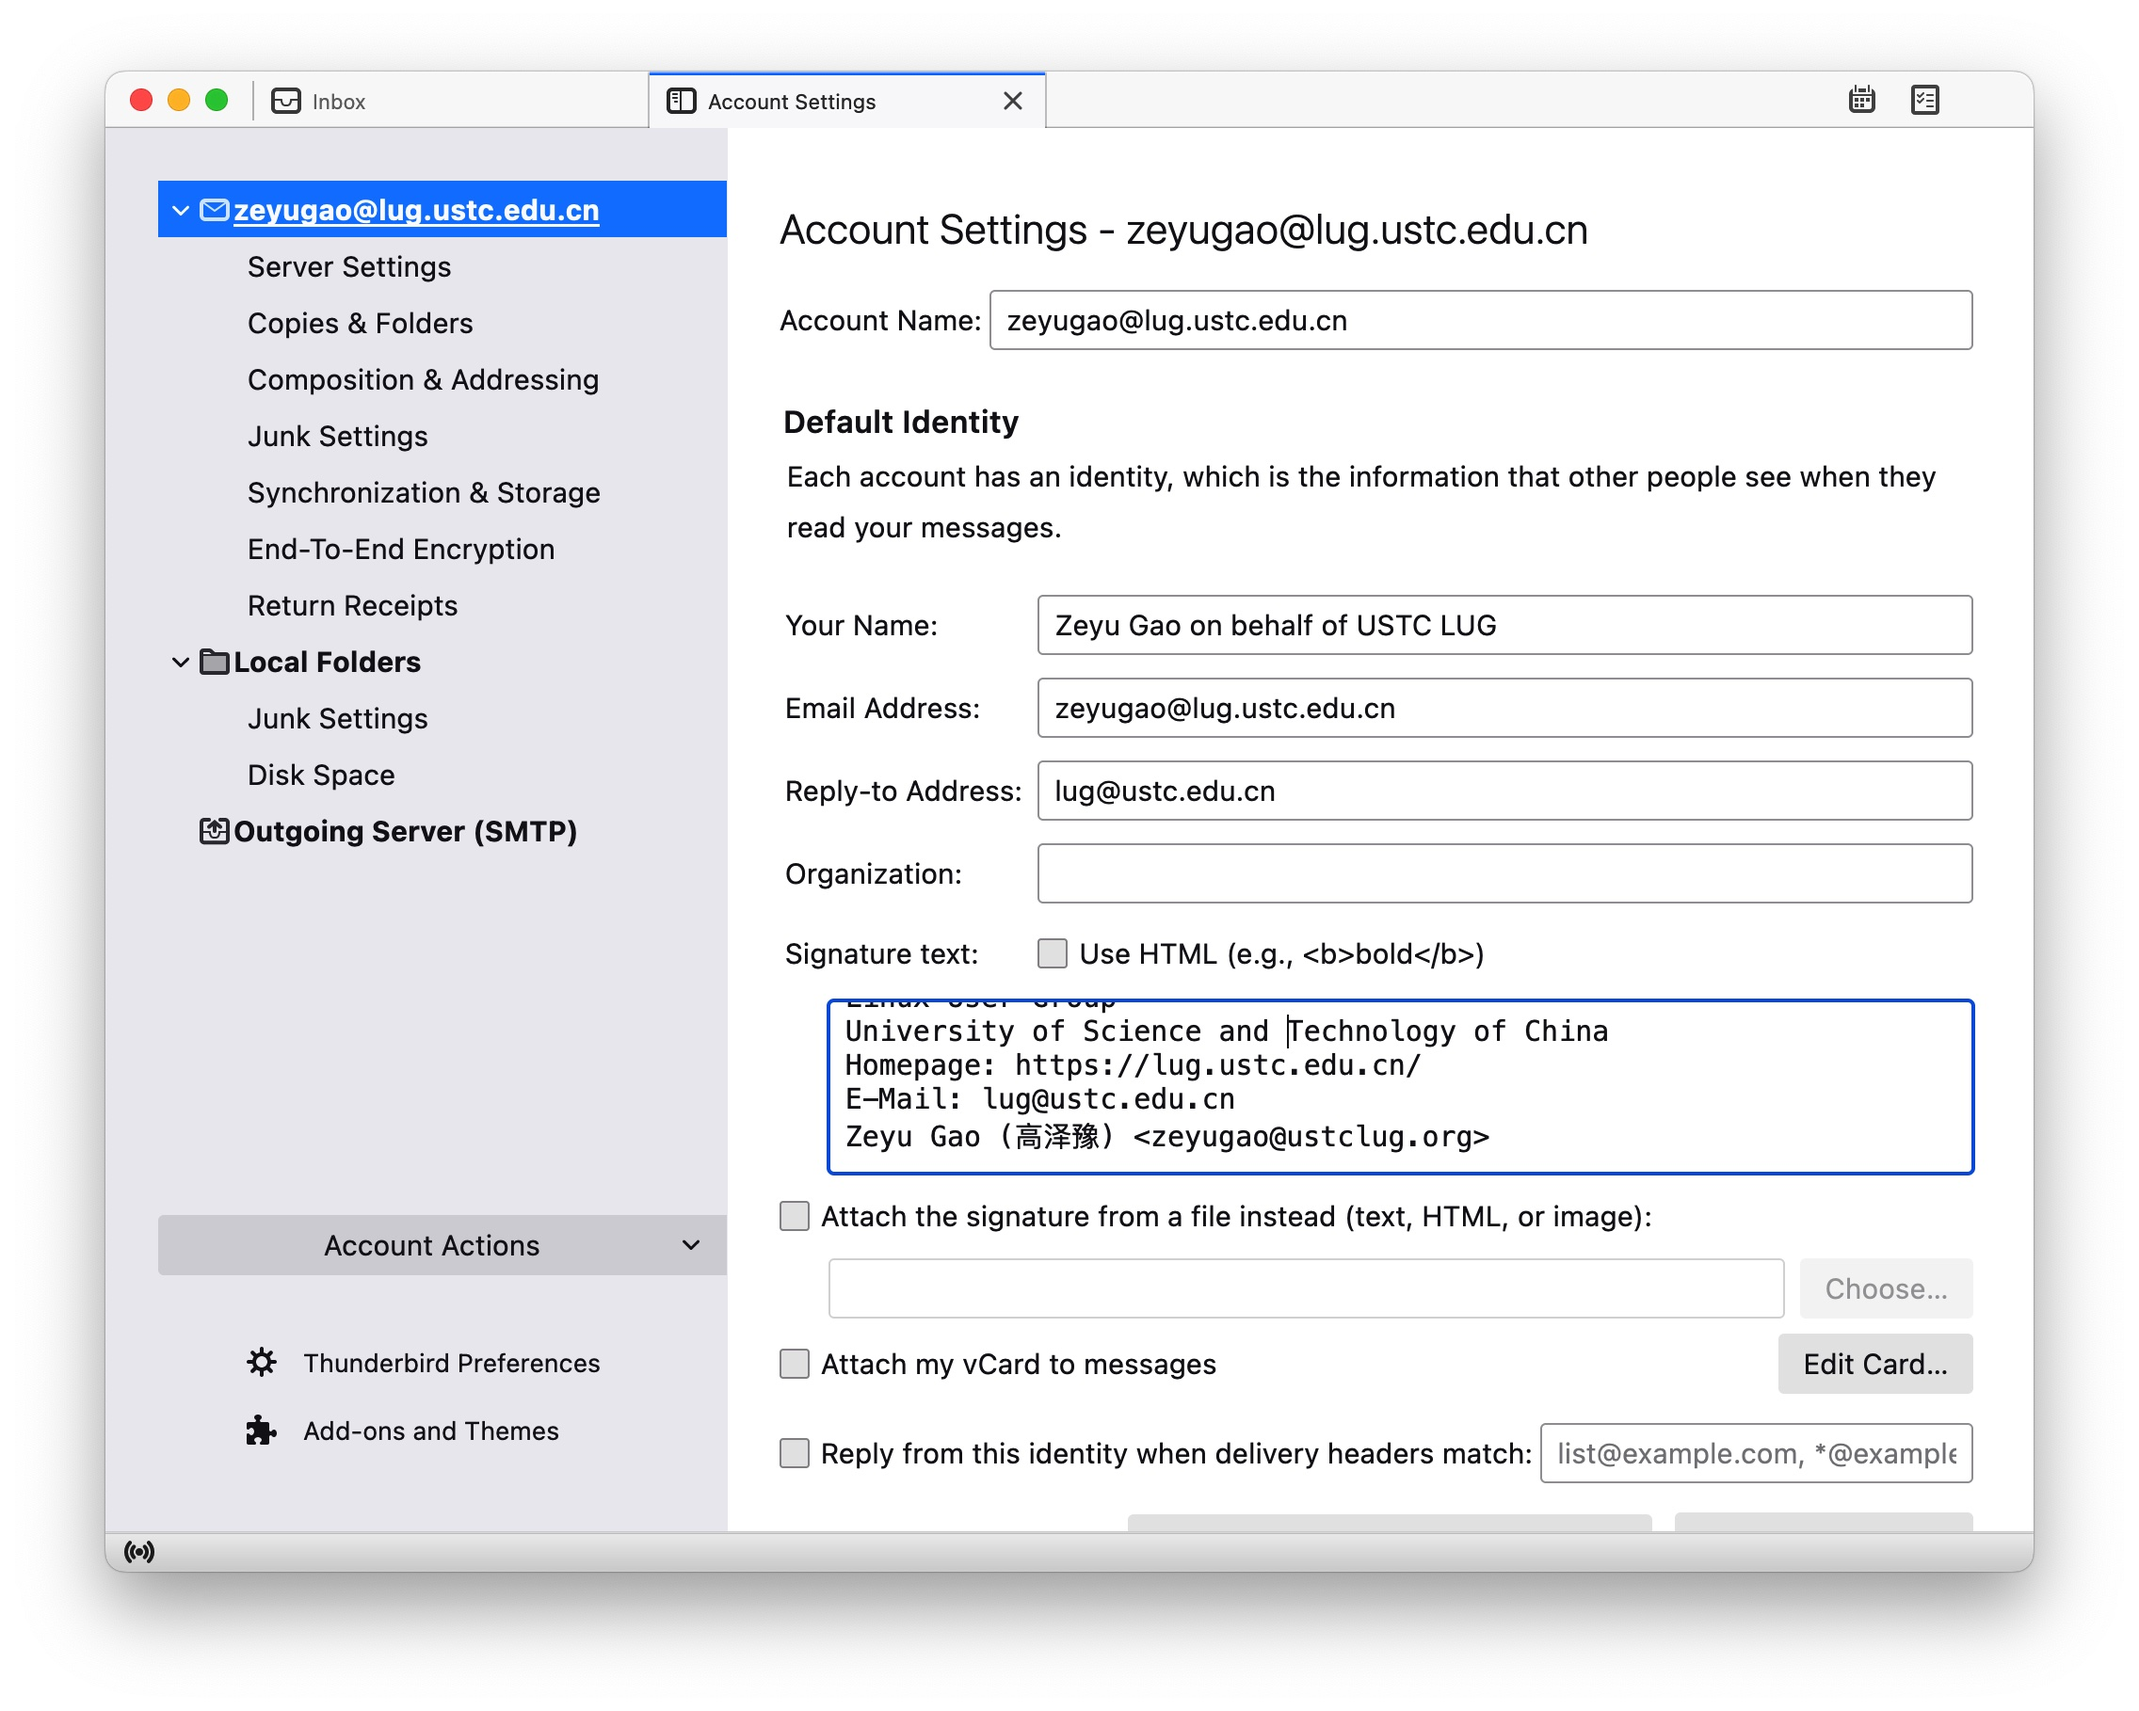
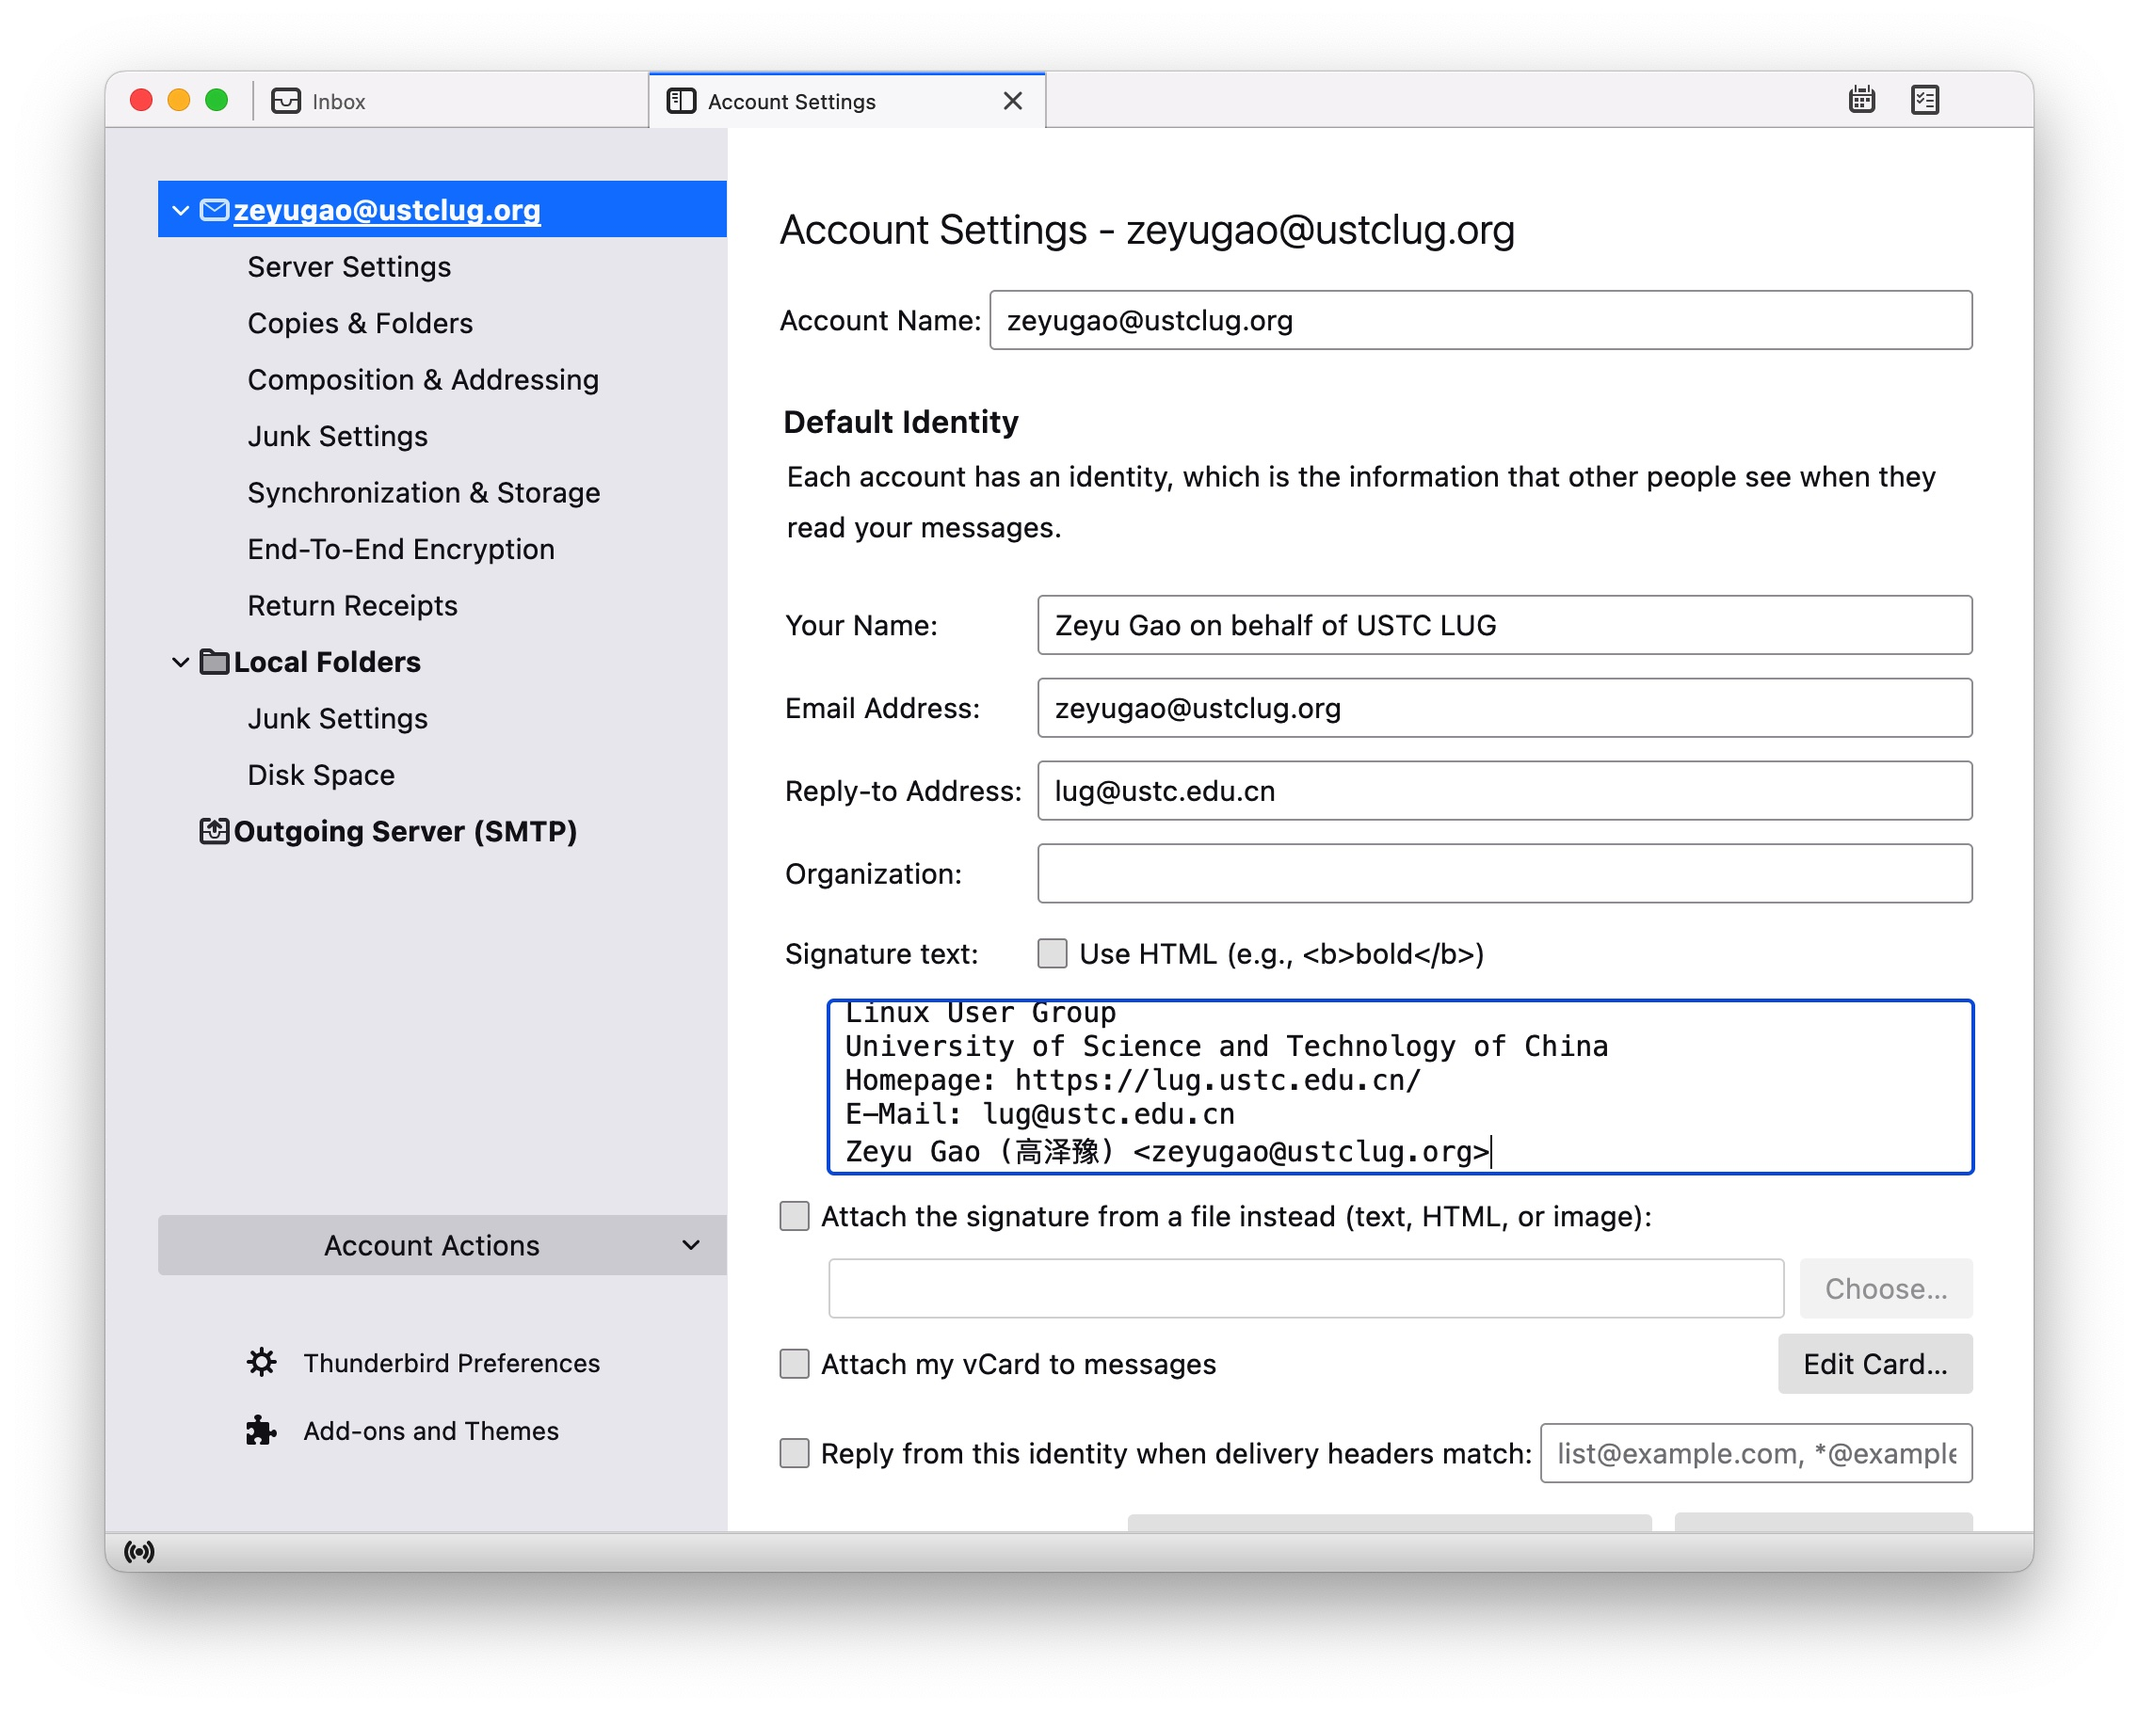
Update thunderbird conf for office365

diff --git a/docs/infrastructure/office.md b/docs/infrastructure/office.md
@@ -32,15 +32,38 @@ Outlook 无法直接通过网页端添加发件人名称、设置回复地址，
 
 ## Thunderbird
 
-在登录时，在自动查询到推荐的服务器配置后，选择 IMAP，并选择 `Configure manually`。
+在登录时，输入了用户名、密码后，会显示无法找到对应的邮箱配置
 
-将 `Incoming server` 和 `Outgoing server` 下面的 `Authentication method:` 都修改为 `OAuth2`。然后点 `Done`。在弹出的窗口中完成认证。
+![Thunderbird auto config failed](img/thunderbird-auto-conf-failed.jpg)
+
+进行如下的手动配置：
+
+- Incoming Server
+  - Hostname: outlook.office365.com
+  - Port: 993
+  - Connection security: SSL/TLS
+  - Authentication: Autodetect
+- Outgoing server
+  - Hostname: smtp.office365.com
+  - Port: 587
+  - Connection security: STARTTLS
+  - Authentication: Autodetect
+
+如下图：
+
+![Thunderbird manually config](img/thunderbird-conf-manual.jpg)
+
+然后点左下角的 `Re-test`，重新搜索到配置后，在两个 Authentication method 中均选择 OAthu2
+
+![Thunderbird re-test](img/thunderbird-re-test.jpg)
+
+然后点 `Done`。在弹出的窗口中完成认证。
 
 ![Thunderbird Login Config](./img/thunderbird-config.jpg)
 
 在完成后，在右上角中选择账户设置，在默认身份中
 
-- 修改 “您的姓名“ 为 ”Zeyu Gao on behalf of USTC LUG”（请换成自己的名字）
+- 修改 “您的姓名“ 为 “Zeyu Gao on behalf of USTC LUG”（请换成自己的名字）
 - ”回复地址“ 修改为 “`lug@ustc.edu.cn`”
 - “签名文字” 为（最后一行换成自己的信息）
 
